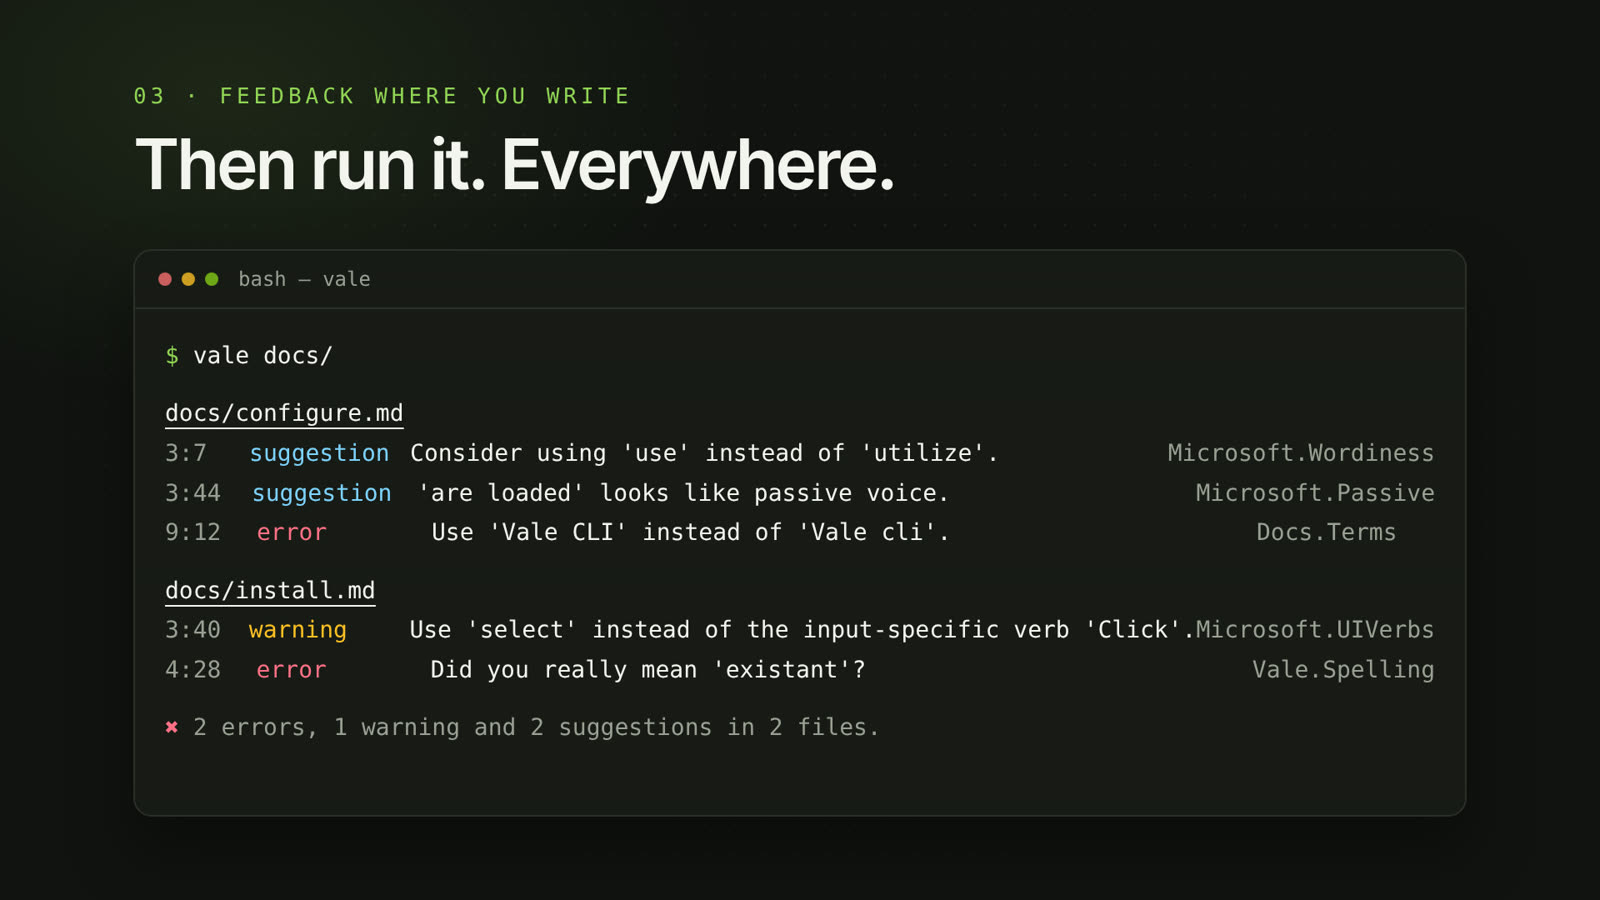
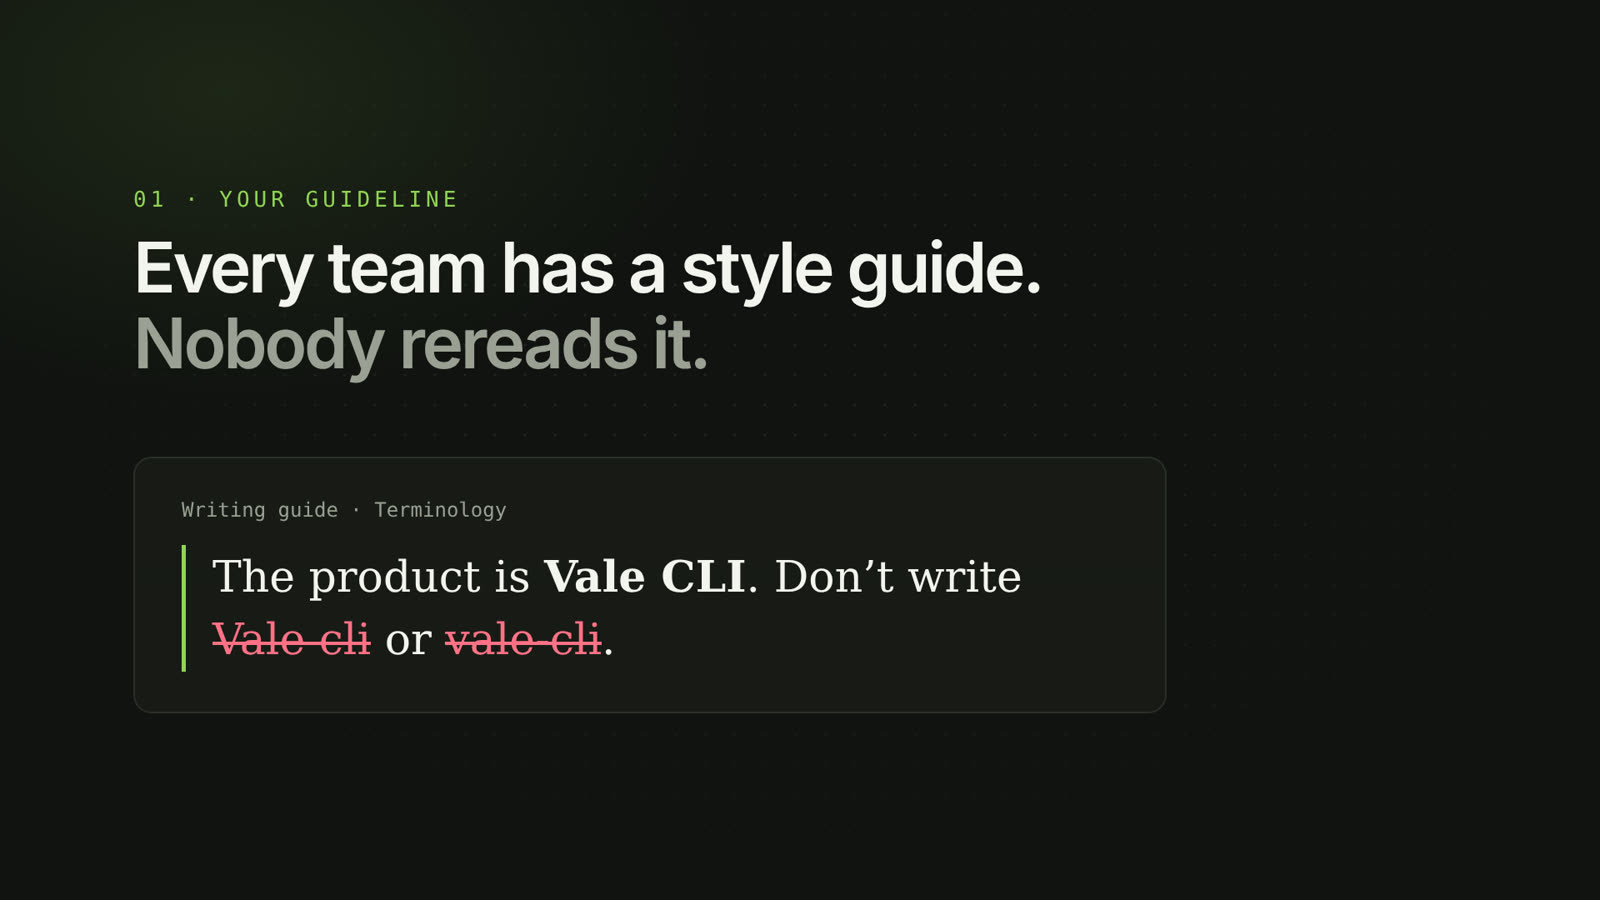
home: the video band as a dark section with chapters
The band takes the video's own ground in both themes, and six chapters
beside the frame start it at each scene. The poster is now the opening
guideline, which the page does not show elsewhere.

diff --git a/src/lib/components/landing/Promo.svelte b/src/lib/components/landing/Promo.svelte
@@ -3,33 +3,61 @@
 
 	/*
 		The forty-second walkthrough, rendered from video/ (Remotion) and
-		committed under static/media. Nothing loads until the visitor presses
-		play: the poster is the only request, and the video has no sound, so
-		the on-screen text is the whole of it.
+		committed under static/media. The band is the video's own ground, in
+		both themes, so the frame reads as part of the page and not a dark
+		hole in a light one. Nothing loads until the visitor presses play or
+		picks a chapter: the poster is the only request, and the video has no
+		sound, so the on-screen text is the whole of it.
+
+		The chapters are the scenes in video/src/Promo.tsx; `at` is where each
+		starts, in seconds. Change them together.
 	*/
+	const chapters = [
+		{ at: 3.5, title: 'Your guideline', note: 'The line nobody rereads' },
+		{ at: 9, title: 'A rule you own', note: 'The same line, as YAML' },
+		{ at: 16.5, title: 'A run', note: 'What Vale prints' },
+		{ at: 23.5, title: 'What Vale sees', note: 'Prose checked, code skipped' },
+		{ at: 29.5, title: 'Speed', note: 'A whole repository at once' },
+		{ at: 35.5, title: 'Install', note: 'One command' }
+	];
+	const stamp = (s: number) => `0:${String(Math.floor(s)).padStart(2, '0')}`;
+
 	let video = $state<HTMLVideoElement>();
 	let started = $state(false);
+	let time = $state(0);
 
-	function play() {
+	// The chapter playing now: the last one whose start has passed.
+	const current = $derived(started ? chapters.findLastIndex((c) => time >= c.at) : -1);
+
+	function play(at?: number) {
+		if (!video) return;
 		started = true;
-		video?.play();
+		if (at !== undefined) {
+			video.currentTime = at;
+			time = at;
+		}
+		video.play();
 	}
 </script>
 
-<section class="border-b border-border" aria-labelledby="promo-title">
-	<div class="mx-auto max-w-[1152px] px-6 py-14 sm:px-8 sm:py-16">
-		<div class="mb-6 flex flex-wrap items-baseline justify-between gap-x-6 gap-y-1">
-			<h2 id="promo-title" class="text-lg font-medium tracking-tight">Vale in forty seconds</h2>
-			<p class="font-mono text-[11px] uppercase tracking-[0.13em] text-muted-foreground">
-				A guideline · a rule · a run
-			</p>
+<section class="promo border-b border-border" aria-labelledby="promo-title">
+	<div
+		class="mx-auto grid max-w-[1152px] gap-x-12 gap-y-8 px-6 py-14 sm:px-8 sm:py-20 lg:grid-cols-[minmax(0,1fr)_17rem] lg:items-center"
+	>
+		<div class="lg:col-span-2">
+			<p class="font-mono text-[11px] uppercase tracking-[0.13em] text-lime-400">Watch</p>
+			<h2 id="promo-title" class="mt-3 text-3xl font-medium tracking-tight text-white sm:text-4xl">
+				Vale in forty seconds.
+			</h2>
 		</div>
+
 		<div
-			class="relative aspect-video overflow-hidden rounded-xl border border-border bg-[#101310] shadow-sm"
+			class="relative aspect-video overflow-hidden rounded-xl border border-white/10 bg-[#101310] shadow-2xl shadow-black/40"
 		>
 			<!-- svelte-ignore a11y_media_has_caption -->
 			<video
 				bind:this={video}
+				bind:currentTime={time}
 				class="h-full w-full"
 				poster="/media/vale-promo-poster.jpg"
 				preload="none"
@@ -45,17 +73,63 @@
 			{#if !started}
 				<button
 					type="button"
-					onclick={play}
-					class="group absolute inset-0 flex items-center justify-center bg-black/20 transition-colors hover:bg-black/10 focus-visible:outline-none"
+					onclick={() => play()}
+					class="group absolute inset-0 flex items-center justify-center bg-black/25 transition-colors hover:bg-black/10 focus-visible:outline-none"
 					aria-label="Play the video: Vale in forty seconds"
 				>
 					<span
-						class="flex h-16 w-16 items-center justify-center rounded-full bg-primary text-primary-foreground shadow-lg ring-4 ring-white/10 transition-transform group-hover:scale-105 group-focus-visible:ring-white/60 sm:h-20 sm:w-20"
+						class="flex h-16 w-16 items-center justify-center rounded-full bg-lime-500 text-[#101310] shadow-lg ring-4 ring-white/10 transition-transform group-hover:scale-105 group-focus-visible:ring-white/70 sm:h-20 sm:w-20"
 					>
 						<Play class="ml-1 h-7 w-7 fill-current sm:h-8 sm:w-8" aria-hidden="true" />
 					</span>
 				</button>
 			{/if}
 		</div>
+
+		<!-- Chapters: each starts the video at its scene. A row that scrolls on
+		     a phone, a column beside the frame from lg up. -->
+		<ol
+			class="-mx-6 flex gap-2 overflow-x-auto px-6 pb-1 sm:-mx-8 sm:px-8 lg:mx-0 lg:flex-col lg:gap-0 lg:overflow-visible lg:border-l lg:border-white/10 lg:p-0"
+			aria-label="Chapters"
+		>
+			{#each chapters as chapter, i (chapter.at)}
+				<li class="shrink-0">
+					<button
+						type="button"
+						onclick={() => play(chapter.at)}
+						aria-current={i === current ? 'true' : undefined}
+						class="chapter group flex w-full items-baseline gap-3 rounded-full border border-white/10 px-4 py-2 text-left transition-colors hover:border-white/30 focus-visible:outline-none focus-visible:ring-2 focus-visible:ring-lime-400 lg:-ml-px lg:rounded-none lg:border-0 lg:border-l-2 lg:border-transparent lg:py-2.5 lg:pl-5 lg:hover:border-white/40"
+					>
+						<span class="font-mono text-[11px] tabular-nums text-white/45">{stamp(chapter.at)}</span
+						>
+						<span class="min-w-0">
+							<span
+								class="block whitespace-nowrap text-sm font-medium text-white/85 group-hover:text-white"
+								>{chapter.title}</span
+							>
+							<span class="hidden text-xs leading-5 text-white/45 lg:block">{chapter.note}</span>
+						</span>
+					</button>
+				</li>
+			{/each}
+		</ol>
 	</div>
 </section>
+
+<style>
+	/* The video's ground and its corner wash, from video/src/Promo.tsx. */
+	.promo {
+		background: radial-gradient(
+				ellipse 45% 60% at 12% 0%,
+				rgba(144, 212, 84, 0.1),
+				transparent 70%
+			),
+			#101310;
+	}
+	.chapter[aria-current='true'] {
+		border-color: #a3e635;
+	}
+	.chapter[aria-current='true'] :global(span) {
+		color: #fff;
+	}
+</style>
